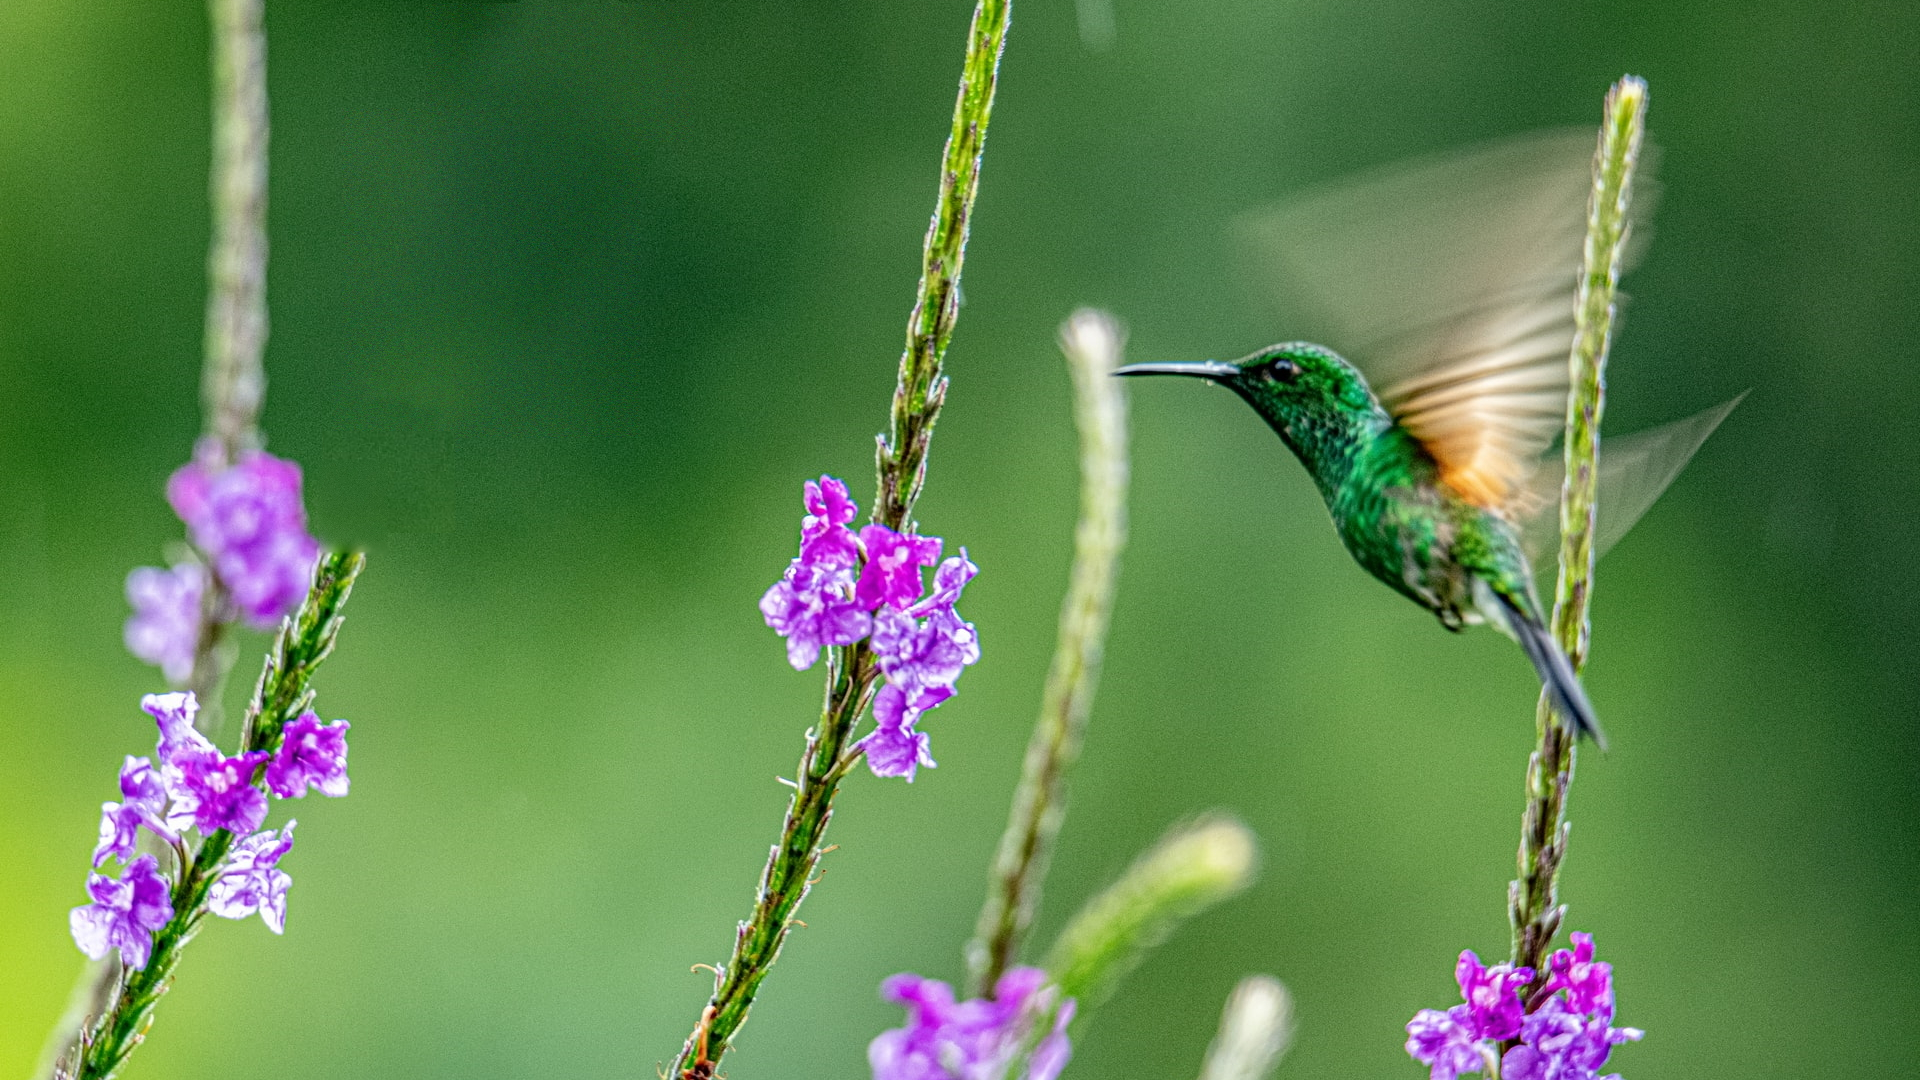
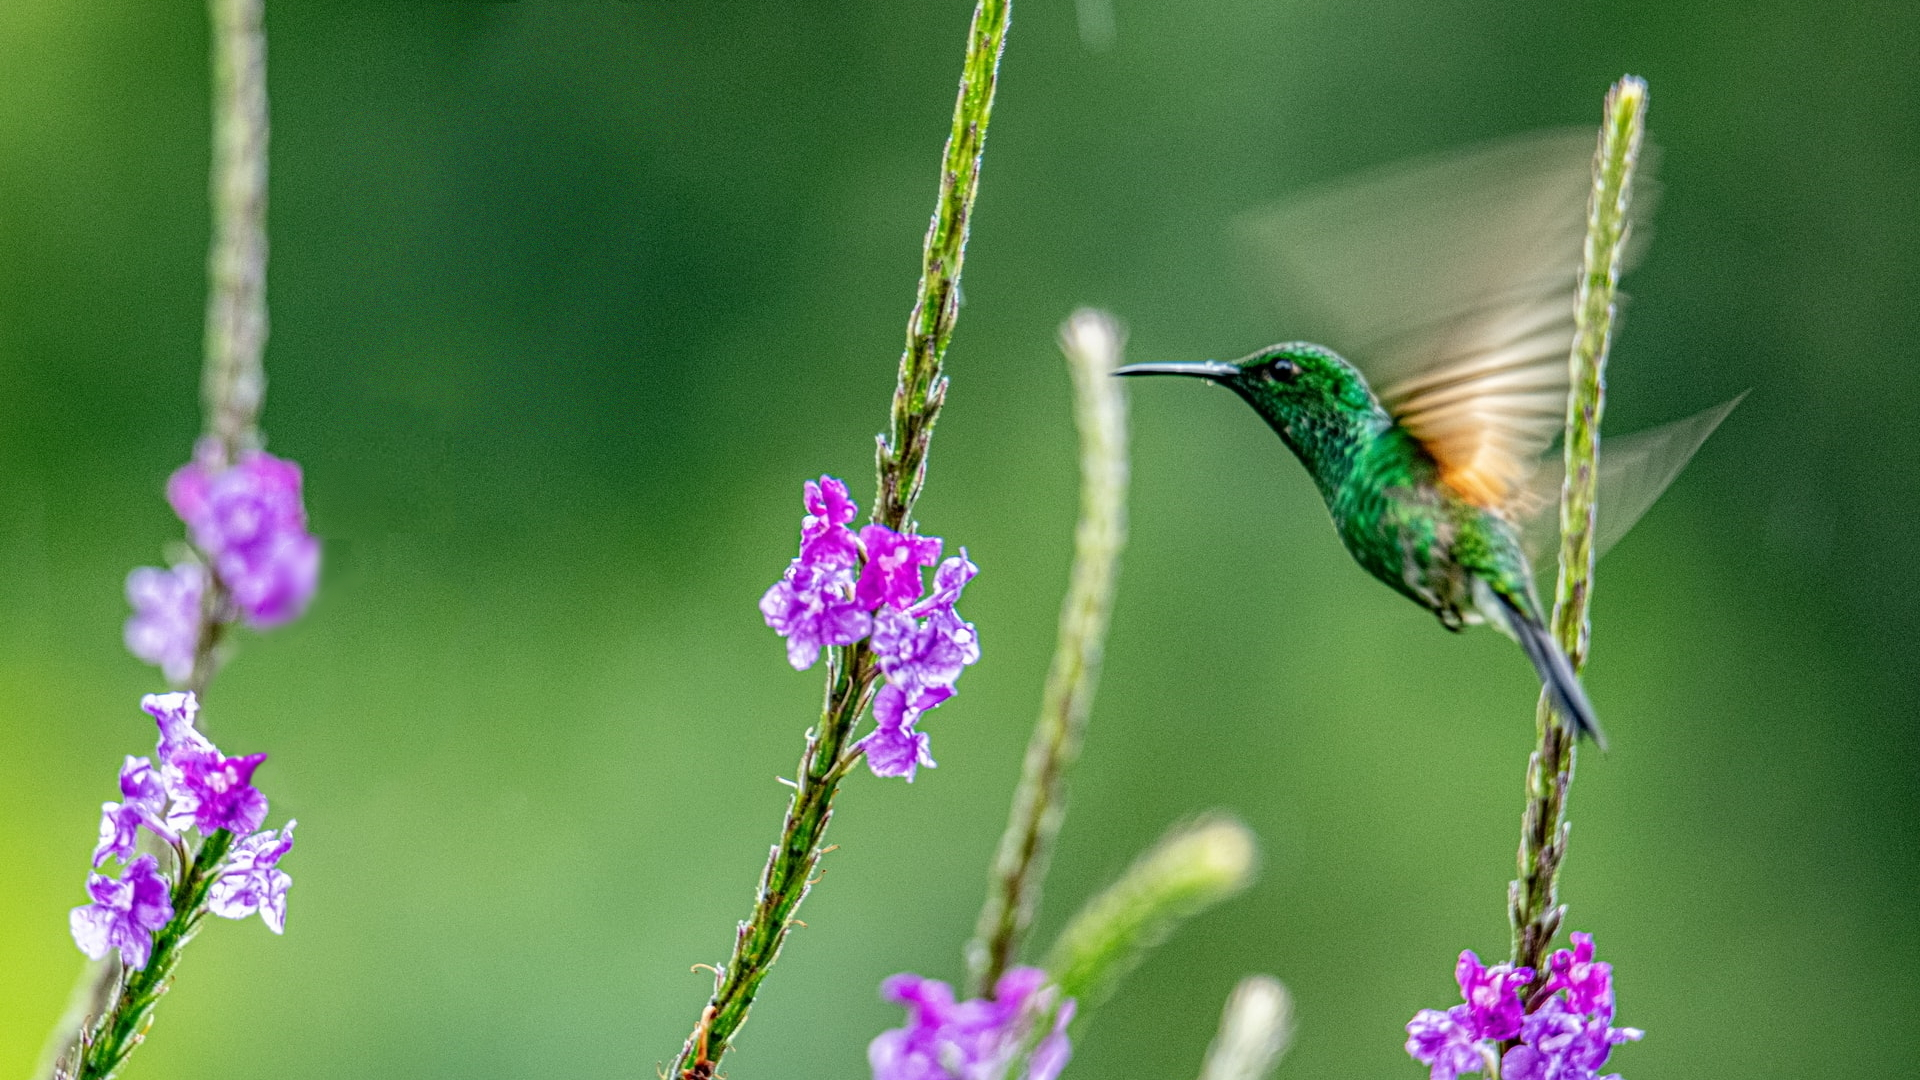
diseños páginas

Changed region(s): [[0.0938, 0.4889, 0.1875, 0.7639]]

diff --git a/src/scss/pages/_home.scss b/src/scss/pages/_home.scss
@@ -30,40 +30,40 @@ html{
   height: 100vh;
   display: flex;
   justify-content: flex-start;
-  align-items: flex-end;
+  align-items: flex-start;
   padding-top: 80px;
   padding-bottom: 20px;
   // padding-left: 100px;
   
-  color: $white;
+  color: #E6ECDF;
   // @include media-breakpoint-up(sm) {
   //   padding-top: 160px;
   //   padding-bottom: 80px;
   // }
   @include media-breakpoint-up(md) {
     align-items: flex-start;
-    padding-top: 120px;
+    padding-top: 100px;
     padding-bottom: 100px;
-    padding-left: 100px;
+    padding-left: 90px;
   }
   // @include media-breakpoint-up(lg) {
   //   align-items: flex-start;
   // }
   h1 {
     
-    font-size: 6rem;
-    line-height: 1.2;
+    font-size: 3rem;
+    line-height: 1;
     font-family: $font-family-heading;
     width: 70%;
-    font-weight: 600;
+    // font-weight: 600;
     letter-spacing: -0.02em;
+    
     // @include media-breakpoint-up(sm) {
     //   width: 70%;
     // }
-    // @include media-breakpoint-up(md) {
-    //   font-size: 3rem;
-    //   width: 70%;
-    // }
+    @include media-breakpoint-up(lg) {
+      font-size: 6.5rem;
+    }
     // @include media-breakpoint-up(lg) {
     //   font-size: 3rem;
     //   width: 50%;
@@ -74,7 +74,8 @@ html{
     font-size: 1.2rem;
     font-weight: lighter;
     line-height: 1.4;
-    padding-left: 10px;
+    padding-left: 8px;
+    font-family: $font-family-heading;
     // @include media-breakpoint-up(sm) {
     //   width: 70%;
     // }

diff --git a/src/scss/pages/services/_page-services.scss b/src/scss/pages/services/_page-services.scss
@@ -1,18 +1,18 @@
 .page-services {
-  background-image: url('../images/undraw_businesswoman_pc12.svg');
+  background-image: url('../images/koligris.png'); //<span>Photo by <a href="https://unsplash.com/@ninjason?utm_source=unsplash&amp;utm_medium=referral&amp;utm_content=creditCopyText">Jason Leung</a> on <a href="https://unsplash.com/s/photos/hummingbird?utm_source=unsplash&amp;utm_medium=referral&amp;utm_content=creditCopyText">Unsplash</a></span>
   background-repeat: no-repeat;
-  background-size: 115%;
-  background-position: 49px -40px;
-  @include media-breakpoint-up(sm) {
-    background-size: 90%;
-    background-position: 159px -40px;
-  }
-  @include media-breakpoint-up(md) {
-    background-size: 85%;
-    background-position: 199px -80px;
-  }
-  @include media-breakpoint-up(lg) {
-    background-size: 60%;
-    background-position: 100% -110px;
-  }
+  background-size: 50vh;
+  background-position: top right;
+  // @include media-breakpoint-up(sm) {
+  //   background-size: 90%;
+  //   background-position: 159px -40px;
+  // }
+  // @include media-breakpoint-up(md) {
+  //   background-size: 85%;
+  //   background-position: 199px -80px;
+  // }
+  // @include media-breakpoint-up(lg) {
+  //   background-size: 60%;
+  //   background-position: 100% -110px;
+  // }
 }

diff --git a/src/scss/pages/testimonials/_page-testimonials.scss b/src/scss/pages/testimonials/_page-testimonials.scss
@@ -1,18 +1,14 @@
 .page-testimonials {
-  background-image: url('../images/undraw_hang_out_h9ud.svg');
+  background-image: url('../images/kolikoli.png');
   background-repeat: no-repeat;
-  background-size: 115%;
-  background-position: 49px -40px;
+  background-size: 60vw;
+  background-position: 100% 50px;
   @include media-breakpoint-up(sm) {
-    background-size: 90%;
-    background-position: 159px -40px;
+    background-size: 50vw;
+    // background-position: 159px -40px;
   }
   @include media-breakpoint-up(md) {
-    background-size: 85%;
-    background-position: 199px -80px;
-  }
-  @include media-breakpoint-up(lg) {
-    background-size: 60%;
-    background-position: 100% -110px;
+    background-size: 40vw;
+    // background-position: top right;
   }
 }

diff --git a/src/scss/pages/team/_page-teams.scss b/src/scss/pages/team/_page-teams.scss
@@ -1,18 +1,15 @@
 .page-teams {
-  background-image: url('../images/undraw_hang_out_h9ud.svg');
+  background-image: url('../images/hdoscolibris.png');
   background-repeat: no-repeat;
-  background-size: 115%;
-  background-position: 49px -40px;
+  background-size: 75vw;
+  background-position:top right;
+
   @include media-breakpoint-up(sm) {
-    background-size: 90%;
-    background-position: 159px -40px;
-  }
-  @include media-breakpoint-up(md) {
-    background-size: 85%;
-    background-position: 199px -80px;
+    background-size: 50vw;
+    // background-position: 159px -40px;
   }
   @include media-breakpoint-up(lg) {
-    background-size: 60%;
-    background-position: 100% -110px;
+    background-size: 45vw;
+    // background-position: top right;
   }
 }

diff --git a/src/scss/pages/testimonials/_testimonial.scss b/src/scss/pages/testimonials/_testimonial.scss
@@ -16,8 +16,6 @@
     p {
       margin-bottom: 0;
     }
-    a {
-    }
   }
   .testimonials-title {
     margin-bottom: 5px;
